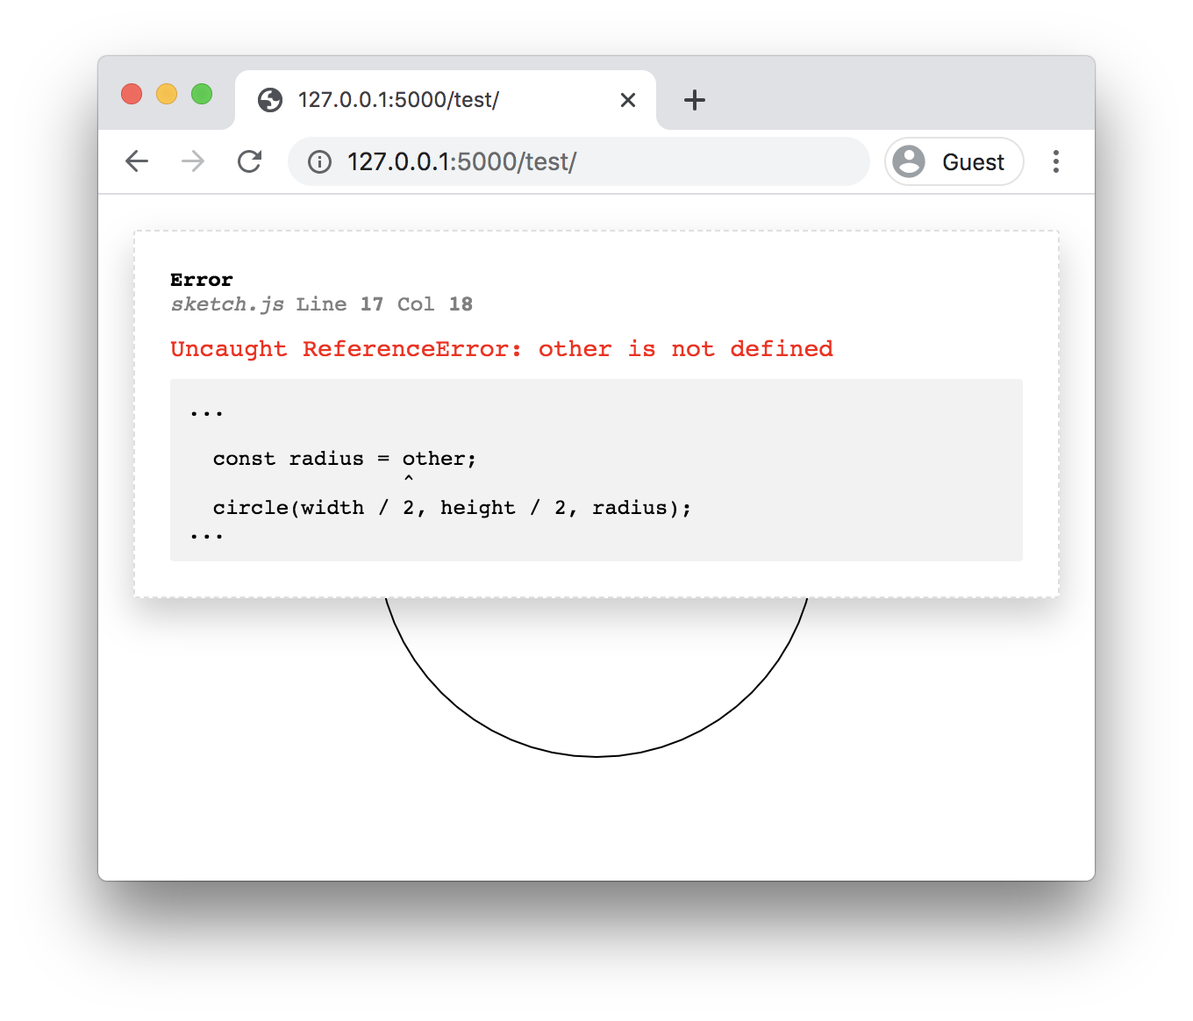
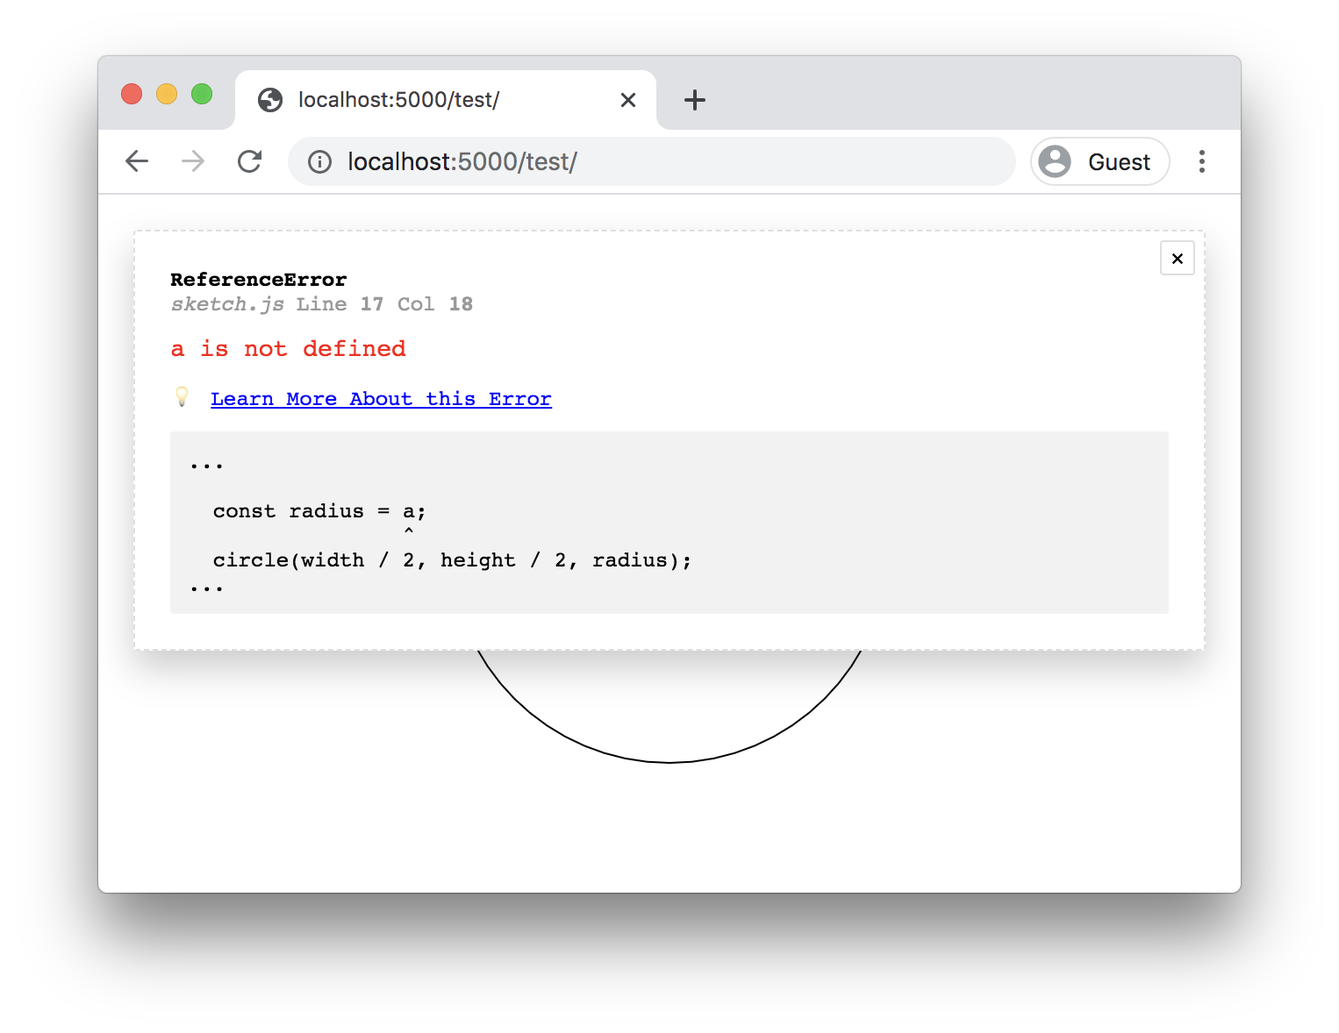
tips and MDN links

diff --git a/error-help.js b/error-help.js
@@ -3,6 +3,10 @@
   let lastErrorKey;
   let fileLoader = Promise.resolve();
   const deferred = [];
+  const infoUrlMap = getErrorInfoURLs();
+  const infoUrls = Object.keys(infoUrlMap).map(key => {
+    return { key, url: infoUrlMap[key] };
+  });
 
   function createKey(args) {
     return args.map(a => (a || '').toString()).join(" ");
@@ -21,6 +25,7 @@
       });
       document.body.appendChild(container);
     }
+    if (!container.parentElement) document.body.appendChild(container);
   }
 
   function clearContainer() {
@@ -29,6 +34,7 @@
       while (container.firstChild) {
         container.removeChild(container.lastChild);
       }
+      if (container.parentElement) container.parentElement.removeChild(container);
     }
   }
 
@@ -39,13 +45,18 @@
     clearContainer();
     createContainer();
 
-    const file = url.split("/").pop();
+    let file = url;
+    if (!file) {
+      file = '[Unknown File]';
+    } else if (file.includes('/')) {
+      file = file.split("/").pop();
+    }
 
     const popup = document.createElement("div");
-    popup.onclick = () => clearContainer();
 
     const header = popup.appendChild(document.createElement("header"));
-    header.textContent = "Error";
+    const errorType = err && err.constructor && err.constructor.name ? err.constructor.name : 'Error'
+    header.textContent = errorType;
     Object.assign(header.style, {
       color: "black",
       fontSize: "12px",
@@ -53,22 +64,53 @@
     });
 
     const lineCol = popup.appendChild(document.createElement("div"));
-    lineCol.innerHTML = `<span><em>${file}</em> Line <strong>${line}</strong> Col <strong>${col}</strong></span>`;
+    let lineSuffix = '';
+    if (isFinite(line) && line >= 0) {
+      lineSuffix += ` Line <strong>${line}</strong>`;
+    }
+    if (isFinite(col) && col >= 0) {
+      lineSuffix += ` Col <strong>${col}</strong>`;
+    }
+    lineCol.innerHTML = `<span><em>${file}</em>${lineSuffix}</span>`;
     Object.assign(lineCol.style, {
       fontSize: "12px",
-      color: "gray"
+      color: "hsl(0, 0%, 60%)"
     });
 
+    const prefix = errorType.toLowerCase() + ':';
+    const uncaughtPrefix = 'uncaught ' + prefix;
+    if (msg.toLowerCase().indexOf(uncaughtPrefix) === 0) {
+      msg = msg.slice(uncaughtPrefix.length).trim();
+    } else if (msg.toLowerCase().indexOf(prefix) === 0) {
+      msg = msg.slice(prefix.length).trim();
+    }
     const text = popup.appendChild(document.createElement("div"));
     text.textContent = msg;
     Object.assign(text.style, {
       marginTop: "10px"
     });
 
+    const msgLower = (msg || '').toLowerCase();
+    const urlTips = infoUrls.filter(item => msgLower.includes(item.key));
+    urlTips.sort((a, b) => b.key.length - a.key.length);
+    const urlTip = urlTips[0]
+    if (msg && urlTip) {
+      const learnMoreLink = popup.appendChild(document.createElement('a'));
+      learnMoreLink.innerHTML = '💡 <u>Learn More About this Error</u>'
+      learnMoreLink.href = urlTip.url;
+      learnMoreLink.target = '_blank';
+      Object.assign(learnMoreLink.style, {
+        color: 'blue',
+        fontSize: '12px',
+        marginTop: '10px',
+        textDecoration: 'none',
+      })
+    }
+
     Object.assign(popup.style, {
       pointerEvents: "initial",
+      position: 'relative',
       margin: "20px",
-      cursor: "pointer",
       borderRadius: "2px",
       display: "flex",
       flexDirection: "column",
@@ -87,6 +129,33 @@
       boxShadow: "0px 10px 20px rgba(0, 0, 0, 0.2)"
     });
     container.appendChild(popup);
+
+    const close = document.createElement('div');
+    close.textContent = '×';
+    close.onclick = () => clearContainer();
+    Object.assign(close.style, {
+      pointerEvents: "initial",
+      cursor: "pointer",
+      position: 'absolute',
+      border: '1px solid hsla(0, 0%, 50%, 0.25)',
+      zIndex: 100,
+      fontFamily: 'Georgia',
+      width: '20px',
+      fontWeight: 'bold',
+      fontSize: '12px',
+      display: 'flex',
+      justifyContent: 'center',
+      alignItems: 'center',
+      color: 'black',
+      height: '20px',
+      background: 'white',
+      boxSizing: 'border-box',
+      borderRadius: "2px",
+      margin: '5px',
+      top: '0px',
+      right: '0px',
+    })
+    popup.appendChild(close);
 
     (async () => {
       try {
@@ -109,15 +178,6 @@
       } catch (err) {}
     })();
   }
-
-  window.addEventListener('error', function(ev) {
-    const args = eventToArguments(ev);
-    if (document.readyState !== "complete") {
-      deferred.push(args);
-      return;
-    }
-    render(...args);
-  }, { passive: true });
 
   function eventToArguments (ev) {
     let { message, filename, lineno, colno, error } = ev;
@@ -215,4 +275,164 @@ The error-help utility has ignored some console.${fn} to reduce visual clutter. 
     },
     false
   );
+
+  function onErrorEvent (args) {
+    if (document.readyState !== "complete") {
+      deferred.push(args);
+      return;
+    }
+    render(...args);
+  }
+
+  window.addEventListener('error', function(ev) {
+    ev.preventDefault();
+    console.error(ev.error);
+    const args = eventToArguments(ev);
+    onErrorEvent(args);
+  });
+
+  window.addEventListener('unhandledrejection', ev => {
+    // should trigger 'error' event and render it
+    const err = ev.reason;
+    if (err.stack) {
+      const matched = err.stack.match(/\/([\/\w-_\.]+\.js):(\d*):(\d*)/)
+      if (matched) {
+        const [, filename, line, column ] = matched;
+        if (filename != null && line != null && isFinite(line) && column != null && isFinite(column)) {
+          const message = err.message;
+          const urlBase = `${window.location.protocol}//${window.location.host}/`;
+          onErrorEvent([ message, urlBase + filename, line, column, err ]);
+          return;
+        }
+      }
+    }
+    const dummyErr = new Error(`An error ocurred, check your DevTools console for details (you can open this with Ctrl/Cmd + Shift + I on most browsers).`)
+    onErrorEvent([ dummyErr.message, null, -1, -1, dummyErr ]);
+  });
+
+  function getErrorInfoURLs () {
+    return {
+      "permission denied to access property": "https://developer.mozilla.org/en-US/docs/Web/JavaScript/Reference/Errors/Property_access_denied",
+      "too much recursion": "https://developer.mozilla.org/en-US/docs/Web/JavaScript/Reference/Errors/Too_much_recursion",
+      "maximum call stack size exceeded": "https://developer.mozilla.org/en-US/docs/Web/JavaScript/Reference/Errors/Too_much_recursion",
+      "argument is not a valid code point": "https://developer.mozilla.org/en-US/docs/Web/JavaScript/Reference/Errors/Not_a_codepoint",
+      "invalid code point": "https://developer.mozilla.org/en-US/docs/Web/JavaScript/Reference/Errors/Not_a_codepoint",
+      "invalid array length": "https://developer.mozilla.org/en-US/docs/Web/JavaScript/Reference/Errors/Invalid_array_length",
+      "invalid array buffer length": "https://developer.mozilla.org/en-US/docs/Web/JavaScript/Reference/Errors/Invalid_array_length",
+      "invalid date": "https://developer.mozilla.org/en-US/docs/Web/JavaScript/Reference/Errors/Invalid_date",
+      "provided date is not in valid range": "https://developer.mozilla.org/en-US/docs/Web/JavaScript/Reference/Errors/Invalid_date",
+      "invalid time value": "https://developer.mozilla.org/en-US/docs/Web/JavaScript/Reference/Errors/Invalid_date",
+      "precision is out of range": "https://developer.mozilla.org/en-US/docs/Web/JavaScript/Reference/Errors/Precision_range",
+      "out of range": "https://developer.mozilla.org/en-US/docs/Web/JavaScript/Reference/Errors/Precision_range",
+      "out of range": "https://developer.mozilla.org/en-US/docs/Web/JavaScript/Reference/Errors/Precision_range",
+      "toExponential() argument must be between": "https://developer.mozilla.org/en-US/docs/Web/JavaScript/Reference/Errors/Precision_range",
+      "toFixed() argument must be between": "https://developer.mozilla.org/en-US/docs/Web/JavaScript/Reference/Errors/Precision_range",
+      "toPrecision() argument must be between": "https://developer.mozilla.org/en-US/docs/Web/JavaScript/Reference/Errors/Precision_range",
+      "radix must be an integer": "https://developer.mozilla.org/en-US/docs/Web/JavaScript/Reference/Errors/Bad_radix",
+      "radix argument must be between": "https://developer.mozilla.org/en-US/docs/Web/JavaScript/Reference/Errors/Bad_radix",
+      "repeat count must be less than infinity": "https://developer.mozilla.org/en-US/docs/Web/JavaScript/Reference/Errors/Resulting_string_too_large",
+      "repeat count must be non-negative": "https://developer.mozilla.org/en-US/docs/Web/JavaScript/Reference/Errors/Negative_repetition_count",
+      "invalid count value": "https://developer.mozilla.org/en-US/docs/Web/JavaScript/Reference/Errors/Negative_repetition_count",
+      "assignment to undeclared variable": "https://developer.mozilla.org/en-US/docs/Web/JavaScript/Reference/Errors/Undeclared_var",
+      "is not defined": "https://developer.mozilla.org/en-US/docs/Web/JavaScript/Reference/Errors/Not_defined",
+      "can't access lexical declaration": "https://developer.mozilla.org/en-US/docs/Web/JavaScript/Reference/Errors/Cant_access_lexical_declaration_before_init",
+      "deprecated caller or arguments usage": "https://developer.mozilla.org/en-US/docs/Web/JavaScript/Reference/Errors/Deprecated_caller_or_arguments_usage",
+      "invalid assignment left-hand side": "https://developer.mozilla.org/en-US/docs/Web/JavaScript/Reference/Errors/Invalid_assignment_left-hand_side",
+      "reference to undefined property": "https://developer.mozilla.org/en-US/docs/Web/JavaScript/Reference/Errors/Undefined_prop",
+      "prefixed octal literals and octal escape seq. are deprecated": "https://developer.mozilla.org/en-US/docs/Web/JavaScript/Reference/Errors/Deprecated_octal",
+      "not allowed in function with non-simple parameters": "https://developer.mozilla.org/en-US/docs/Web/JavaScript/Reference/Errors/Strict_Non_Simple_Params",
+      "is a reserved identifier": "https://developer.mozilla.org/en-US/docs/Web/JavaScript/Reference/Errors/Reserved_identifier",
+      "unexpected reserved word": "https://developer.mozilla.org/en-US/docs/Web/JavaScript/Reference/Errors/Reserved_identifier",
+      "json.parse:": "https://developer.mozilla.org/en-US/docs/Web/JavaScript/Reference/Errors/JSON_bad_parse",
+      "json.parse: bad": "https://developer.mozilla.org/en-US/docs/Web/JavaScript/Reference/Errors/JSON_bad_parse",
+      "malformed formal parameter": "https://developer.mozilla.org/en-US/docs/Web/JavaScript/Reference/Errors/Malformed_formal_parameter",
+      "unexpected token": "https://developer.mozilla.org/en-US/docs/Web/JavaScript/Reference/Errors/Unexpected_token",
+      "using //@ to indicate sourceurl pragmas is deprecated. use //# instead": "https://developer.mozilla.org/en-US/docs/Web/JavaScript/Reference/Errors/Deprecated_source_map_pragma",
+      "a declaration in the head of a for-of loop can't have an initializer": "https://developer.mozilla.org/en-US/docs/Web/JavaScript/Reference/Errors/Invalid_for-of_initializer",
+      "for-of loop variable declaration may not have an initializer": "https://developer.mozilla.org/en-US/docs/Web/JavaScript/Reference/Errors/Invalid_for-of_initializer",
+      "applying the 'delete' operator to an unqualified name is deprecated": "https://developer.mozilla.org/en-US/docs/Web/JavaScript/Reference/Errors/Delete_in_strict_mode",
+      "delete of an unqualified identifier in strict mode": "https://developer.mozilla.org/en-US/docs/Web/JavaScript/Reference/Errors/Delete_in_strict_mode",
+      "for-in loop head declarations may not have initializers": "https://developer.mozilla.org/en-US/docs/Web/JavaScript/Reference/Errors/Invalid_for-in_initializer",
+      "for-in loop variable declaration may not have an initializer": "https://developer.mozilla.org/en-US/docs/Web/JavaScript/Reference/Errors/Invalid_for-in_initializer",
+      "function statement requires a name": "https://developer.mozilla.org/en-US/docs/Web/JavaScript/Reference/Errors/Unnamed_function_statement",
+      "function statements require a function name": "https://developer.mozilla.org/en-US/docs/Web/JavaScript/Reference/Errors/Unnamed_function_statement",
+      "unexpected token '('": "https://developer.mozilla.org/en-US/docs/Web/JavaScript/Reference/Errors/Unnamed_function_statement",
+      "unexpected token (": "https://developer.mozilla.org/en-US/docs/Web/JavaScript/Reference/Errors/Unnamed_function_statement",
+      "identifier starts immediately after numeric literal": "https://developer.mozilla.org/en-US/docs/Web/JavaScript/Reference/Errors/Identifier_after_number",
+      "unexpected number": "https://developer.mozilla.org/en-US/docs/Web/JavaScript/Reference/Errors/Identifier_after_number",
+      "illegal character": "https://developer.mozilla.org/en-US/docs/Web/JavaScript/Reference/Errors/Illegal_character",
+      "invalid or unexpected token": "https://developer.mozilla.org/en-US/docs/Web/JavaScript/Reference/Errors/Illegal_character",
+      "invalid regular expression flag": "https://developer.mozilla.org/en-US/docs/Web/JavaScript/Reference/Errors/Bad_regexp_flag",
+      "missing ) after argument list": "https://developer.mozilla.org/en-US/docs/Web/JavaScript/Reference/Errors/Missing_parenthesis_after_argument_list",
+      "missing ) after condition": "https://developer.mozilla.org/en-US/docs/Web/JavaScript/Reference/Errors/Missing_parenthesis_after_condition",
+      "missing : after property id": "https://developer.mozilla.org/en-US/docs/Web/JavaScript/Reference/Errors/Missing_colon_after_property_id",
+      "missing ; before statement": "https://developer.mozilla.org/en-US/docs/Web/JavaScript/Reference/Errors/Missing_semicolon_before_statement",
+      "missing = in const declaration": "https://developer.mozilla.org/en-US/docs/Web/JavaScript/Reference/Errors/Missing_initializer_in_const",
+      "missing initializer in const declaration": "https://developer.mozilla.org/en-US/docs/Web/JavaScript/Reference/Errors/Missing_initializer_in_const",
+      "missing ] after element list": "https://developer.mozilla.org/en-US/docs/Web/JavaScript/Reference/Errors/Missing_bracket_after_list",
+      "missing formal parameter": "https://developer.mozilla.org/en-US/docs/Web/JavaScript/Reference/Errors/Missing_formal_parameter",
+      "missing name after . operator": "https://developer.mozilla.org/en-US/docs/Web/JavaScript/Reference/Errors/Missing_name_after_dot_operator",
+      "missing variable name": "https://developer.mozilla.org/en-US/docs/Web/JavaScript/Reference/Errors/No_variable_name",
+      "unexpected token =": "https://developer.mozilla.org/en-US/docs/Web/JavaScript/Reference/Errors/No_variable_name",
+      "unexpected token '='": "https://developer.mozilla.org/en-US/docs/Web/JavaScript/Reference/Errors/No_variable_name",
+      "missing } after function body": "https://developer.mozilla.org/en-US/docs/Web/JavaScript/Reference/Errors/Missing_curly_after_function_body",
+      "missing } after property list": "https://developer.mozilla.org/en-US/docs/Web/JavaScript/Reference/Errors/Missing_curly_after_property_list",
+      "redeclaration of formal parameter": "https://developer.mozilla.org/en-US/docs/Web/JavaScript/Reference/Errors/Redeclared_parameter",
+      "has already been declared": "https://developer.mozilla.org/en-US/docs/Web/JavaScript/Reference/Errors/Redeclared_parameter",
+      "return not in function": "https://developer.mozilla.org/en-US/docs/Web/JavaScript/Reference/Errors/Bad_return_or_yield",
+      "test for equality (==) mistyped as assignment (=)?": "https://developer.mozilla.org/en-US/docs/Web/JavaScript/Reference/Errors/Equal_as_assign",
+      "unterminated string literal": "https://developer.mozilla.org/en-US/docs/Web/JavaScript/Reference/Errors/Unterminated_string_literal",
+      "has no properties": "https://developer.mozilla.org/en-US/docs/Web/JavaScript/Reference/Errors/No_properties",
+      "is (not)": "https://developer.mozilla.org/en-US/docs/Web/JavaScript/Reference/Errors/Unexpected_type",
+      "is not a constructor": "https://developer.mozilla.org/en-US/docs/Web/JavaScript/Reference/Errors/Not_a_constructor",
+      "is not a function": "https://developer.mozilla.org/en-US/docs/Web/JavaScript/Reference/Errors/Not_a_function",
+      "is not a non-null object": "https://developer.mozilla.org/en-US/docs/Web/JavaScript/Reference/Errors/No_non-null_object",
+      "property description must be an object": "https://developer.mozilla.org/en-US/docs/Web/JavaScript/Reference/Errors/No_non-null_object",
+      "invalid value used in weak set": "https://developer.mozilla.org/en-US/docs/Web/JavaScript/Reference/Errors/No_non-null_object",
+      "is read-only": "https://developer.mozilla.org/en-US/docs/Web/JavaScript/Reference/Errors/Read-only",
+      "cannot assign to read only property": "https://developer.mozilla.org/en-US/docs/Web/JavaScript/Reference/Errors/Read-only",
+      "is not iterable": "https://developer.mozilla.org/en-US/docs/Web/JavaScript/Reference/Errors/is_not_iterable",
+      "is not a function or its return value is not iterable": "https://developer.mozilla.org/en-US/docs/Web/JavaScript/Reference/Errors/is_not_iterable",
+      "more arguments needed": "https://developer.mozilla.org/en-US/docs/Web/JavaScript/Reference/Errors/More_arguments_needed",
+      "reduce of empty array with no initial value": "https://developer.mozilla.org/en-US/docs/Web/JavaScript/Reference/Errors/Reduce_of_empty_array_with_no_initial_value",
+      "called on incompatible type": "https://developer.mozilla.org/en-US/docs/Web/JavaScript/Reference/Errors/Called_on_incompatible_type",
+      "called on incompatible receiver": "https://developer.mozilla.org/en-US/docs/Web/JavaScript/Reference/Errors/Called_on_incompatible_type",
+      "called on incompatible target": "https://developer.mozilla.org/en-US/docs/Web/JavaScript/Reference/Errors/Called_on_incompatible_type",
+      "called on incompatible object": "https://developer.mozilla.org/en-US/docs/Web/JavaScript/Reference/Errors/Called_on_incompatible_type",
+      "bind must be called on a function": "https://developer.mozilla.org/en-US/docs/Web/JavaScript/Reference/Errors/Called_on_incompatible_type",
+      "can't access dead object": "https://developer.mozilla.org/en-US/docs/Web/JavaScript/Reference/Errors/Dead_object",
+      "can't access property": "https://developer.mozilla.org/en-US/docs/Web/JavaScript/Reference/Errors/Cant_access_property",
+      "can't assign to property": "https://developer.mozilla.org/en-US/docs/Web/JavaScript/Reference/Errors/Cant_assign_to_property",
+      "cannot create property": "https://developer.mozilla.org/en-US/docs/Web/JavaScript/Reference/Errors/Cant_assign_to_property",
+      "can't define property": "https://developer.mozilla.org/en-US/docs/Web/JavaScript/Reference/Errors/Cant_define_property_object_not_extensible",
+      "can't delete non-configurable array element": "https://developer.mozilla.org/en-US/docs/Web/JavaScript/Reference/Errors/Non_configurable_array_element",
+      "dannot delete property": "https://developer.mozilla.org/en-US/docs/Web/JavaScript/Reference/Errors/Non_configurable_array_element",
+      "can't redefine non-configurable property": "https://developer.mozilla.org/en-US/docs/Web/JavaScript/Reference/Errors/Cant_redefine_property",
+      "cannot redefine property": "https://developer.mozilla.org/en-US/docs/Web/JavaScript/Reference/Errors/Cant_redefine_property",
+      "right-hand side of 'in' should be an object, got": "https://developer.mozilla.org/en-US/docs/Web/JavaScript/Reference/Errors/in_operator_no_object",
+      "cannot use 'in' operator to search for": "https://developer.mozilla.org/en-US/docs/Web/JavaScript/Reference/Errors/in_operator_no_object",
+      "cyclic object value": "https://developer.mozilla.org/en-US/docs/Web/JavaScript/Reference/Errors/Cyclic_object_value",
+      "converting circular structure to": "https://developer.mozilla.org/en-US/docs/Web/JavaScript/Reference/Errors/Cyclic_object_value",
+      "invalid 'instanceof' operand": "https://developer.mozilla.org/en-US/docs/Web/JavaScript/Reference/Errors/invalid_right_hand_side_instanceof_operand",
+      "right-hand side of 'instanceof' is not": "https://developer.mozilla.org/en-US/docs/Web/JavaScript/Reference/Errors/invalid_right_hand_side_instanceof_operand",
+      "invalid array.prototype.sort argument": "https://developer.mozilla.org/en-US/docs/Web/JavaScript/Reference/Errors/Array_sort_argument",
+      "invalid arguments": "https://developer.mozilla.org/en-US/docs/Web/JavaScript/Reference/Errors/Typed_array_invalid_arguments",
+      "redeclaration of const": "https://developer.mozilla.org/en-US/docs/Web/JavaScript/Reference/Errors/Invalid_const_assignment",
+      "assignment to const": "https://developer.mozilla.org/en-US/docs/Web/JavaScript/Reference/Errors/Invalid_const_assignment",
+      "is non-configurable and can't be deleted": "https://developer.mozilla.org/en-US/docs/Web/JavaScript/Reference/Errors/Cant_delete",
+      "cannot delete property": "https://developer.mozilla.org/en-US/docs/Web/JavaScript/Reference/Errors/Cant_delete",
+      "setting getter-only property": "https://developer.mozilla.org/en-US/docs/Web/JavaScript/Reference/Errors/Getter_only",
+      "which has only a getter": "https://developer.mozilla.org/en-US/docs/Web/JavaScript/Reference/Errors/Getter_only",
+      "redeclares argument": "https://developer.mozilla.org/en-US/docs/Web/JavaScript/Reference/Errors/Var_hides_argument",
+      "malformed uri sequence": "https://developer.mozilla.org/en-US/docs/Web/JavaScript/Reference/Errors/Malformed_URI",
+      "uri malformed": "https://developer.mozilla.org/en-US/docs/Web/JavaScript/Reference/Errors/Malformed_URI",
+      "warning: 08/09 is not a legal ecma-262 octal constant": "https://developer.mozilla.org/en-US/docs/Web/JavaScript/Reference/Errors/Bad_octal",
+      "warning: -file- is being assigned a //# sourcemappingurl, but already has one": "https://developer.mozilla.org/en-US/docs/Web/JavaScript/Reference/Errors/Already_has_pragma",
+      "warning: date.prototype.tolocaleformat is deprecated": "https://developer.mozilla.org/en-US/docs/Web/JavaScript/Reference/Errors/Deprecated_toLocaleFormat",
+      "warning: javascript 1.6's for-each-in loops are deprecated": "https://developer.mozilla.org/en-US/docs/Web/JavaScript/Reference/Errors/For-each-in_loops_are_deprecated",
+      "is deprecated; use string.prototype": "https://developer.mozilla.org/en-US/docs/Web/JavaScript/Reference/Errors/Deprecated_String_generics",
+      "warning: expression closures are deprecated": "https://developer.mozilla.org/en-US/docs/Web/JavaScript/Reference/Errors/Deprecated_expression_closures",
+      "warning: unreachable code after return statement": "https://developer.mozilla.org/en-US/docs/Web/JavaScript/Reference/Errors/Stmt_after_return"
+    };
+  }
 })();

diff --git a/test/index.html b/test/index.html
@@ -3,7 +3,7 @@
   <head>
     <script src="../error-help.js" dedupe-logs></script>
     <script src="https://cdn.jsdelivr.net/npm/p5@1.0.0/lib/p5.js"></script>
-    <script src="sketch.js"></script>
+    <script src="./sketch.js"></script>
     <style>
       body,
       html {

diff --git a/README.md b/README.md
@@ -1,6 +1,6 @@
 # error-help
 
-A standalone JavaScript file ([error-help.js](./error-help.js)) that you can add to your HTML to improve the error/debugging experience when developing HTML/JS projects, without having to open your DevTools console.
+A standalone JavaScript file ([error-help.js](./error-help.js)) that you can add to your HTML to improve the debugging experience when developing HTML/JS projects, without having to open your DevTools console.
 
 This is particularly targeted towards new JavaScript coders and making it a bit easier to get started with the language.
 
@@ -9,8 +9,9 @@ This is particularly targeted towards new JavaScript coders and making it a bit 
 Features:
 
 - On error, logs the file, line number, column, and error message
-- Also fetches the file to show the code that is causing the error
-- Can optionally deduplicate console spam, in order to clean it up a bit (usueful for animation-based projects that may log errors at 60FPS)
+- If possible, shows a link to MDN docs explaining the error, for example *["x" is not defined](https://developer.mozilla.org/en-US/docs/Web/JavaScript/Reference/Errors/Not_defined)*.
+- Also fetches the text of the originating file to show the code causing the error
+- Can optionally de-duplicate console spam, in order to clean it up a bit (usueful for animation-based projects that may log errors at 60FPS)
 
 Gotchas:
 
@@ -24,9 +25,7 @@ Include like so in your project, in the HEAD before all other script tags:
 ```html
   ...
   <head>
-    <script
-      src="https://cdn.jsdelivr.net/npm/error-help@1.0.2/error-help.js" 
-      dedupe-logs></script>
+    <script src="https://cdn.jsdelivr.net/npm/error-help@1.x.x/error-help.js"></script>
   </head>
   ...
 ```
@@ -38,19 +37,25 @@ You can download [error-help.js](./error-help.js), add it to your folder, and lo
 ```html
   ...
   <head>
-    <script src="./error-help.js" dedupe-logs></script>
+    <script src="./error-help.js"></script>
   </head>
   ...
 ```
 
 ## Log Spam Deduplication
 
-If you pass `dedupe-logs` attribute to the script tag, it will deduplicate console logs that repeat 10 or more times within 1.5 second intervals. This is helpful when working on CodeSandbox in an animated sketch, to avoid 60FPS console logs slowing down the browser experience.
+If you pass `dedupe-logs` attribute to the script tag, it will deduplicate console logs that repeat 10 or more times within 1.5 second intervals. This is helpful when working on CodeSandbox in an animated sketch (e.g. with p5.js), to avoid 60FPS console logs slowing down the browser experience.
 
-You can disable this feature by simply removing this attribute from the script tag:
+Example:
 
 ```html
-  <script src="./error-help.js"></script>
+  ...
+  <head>
+    <script
+      src="https://cdn.jsdelivr.net/npm/error-help@1.x.x/error-help.js"
+      dedupe-logs></script>
+  </head>
+  ...
 ```
 
 ## License
